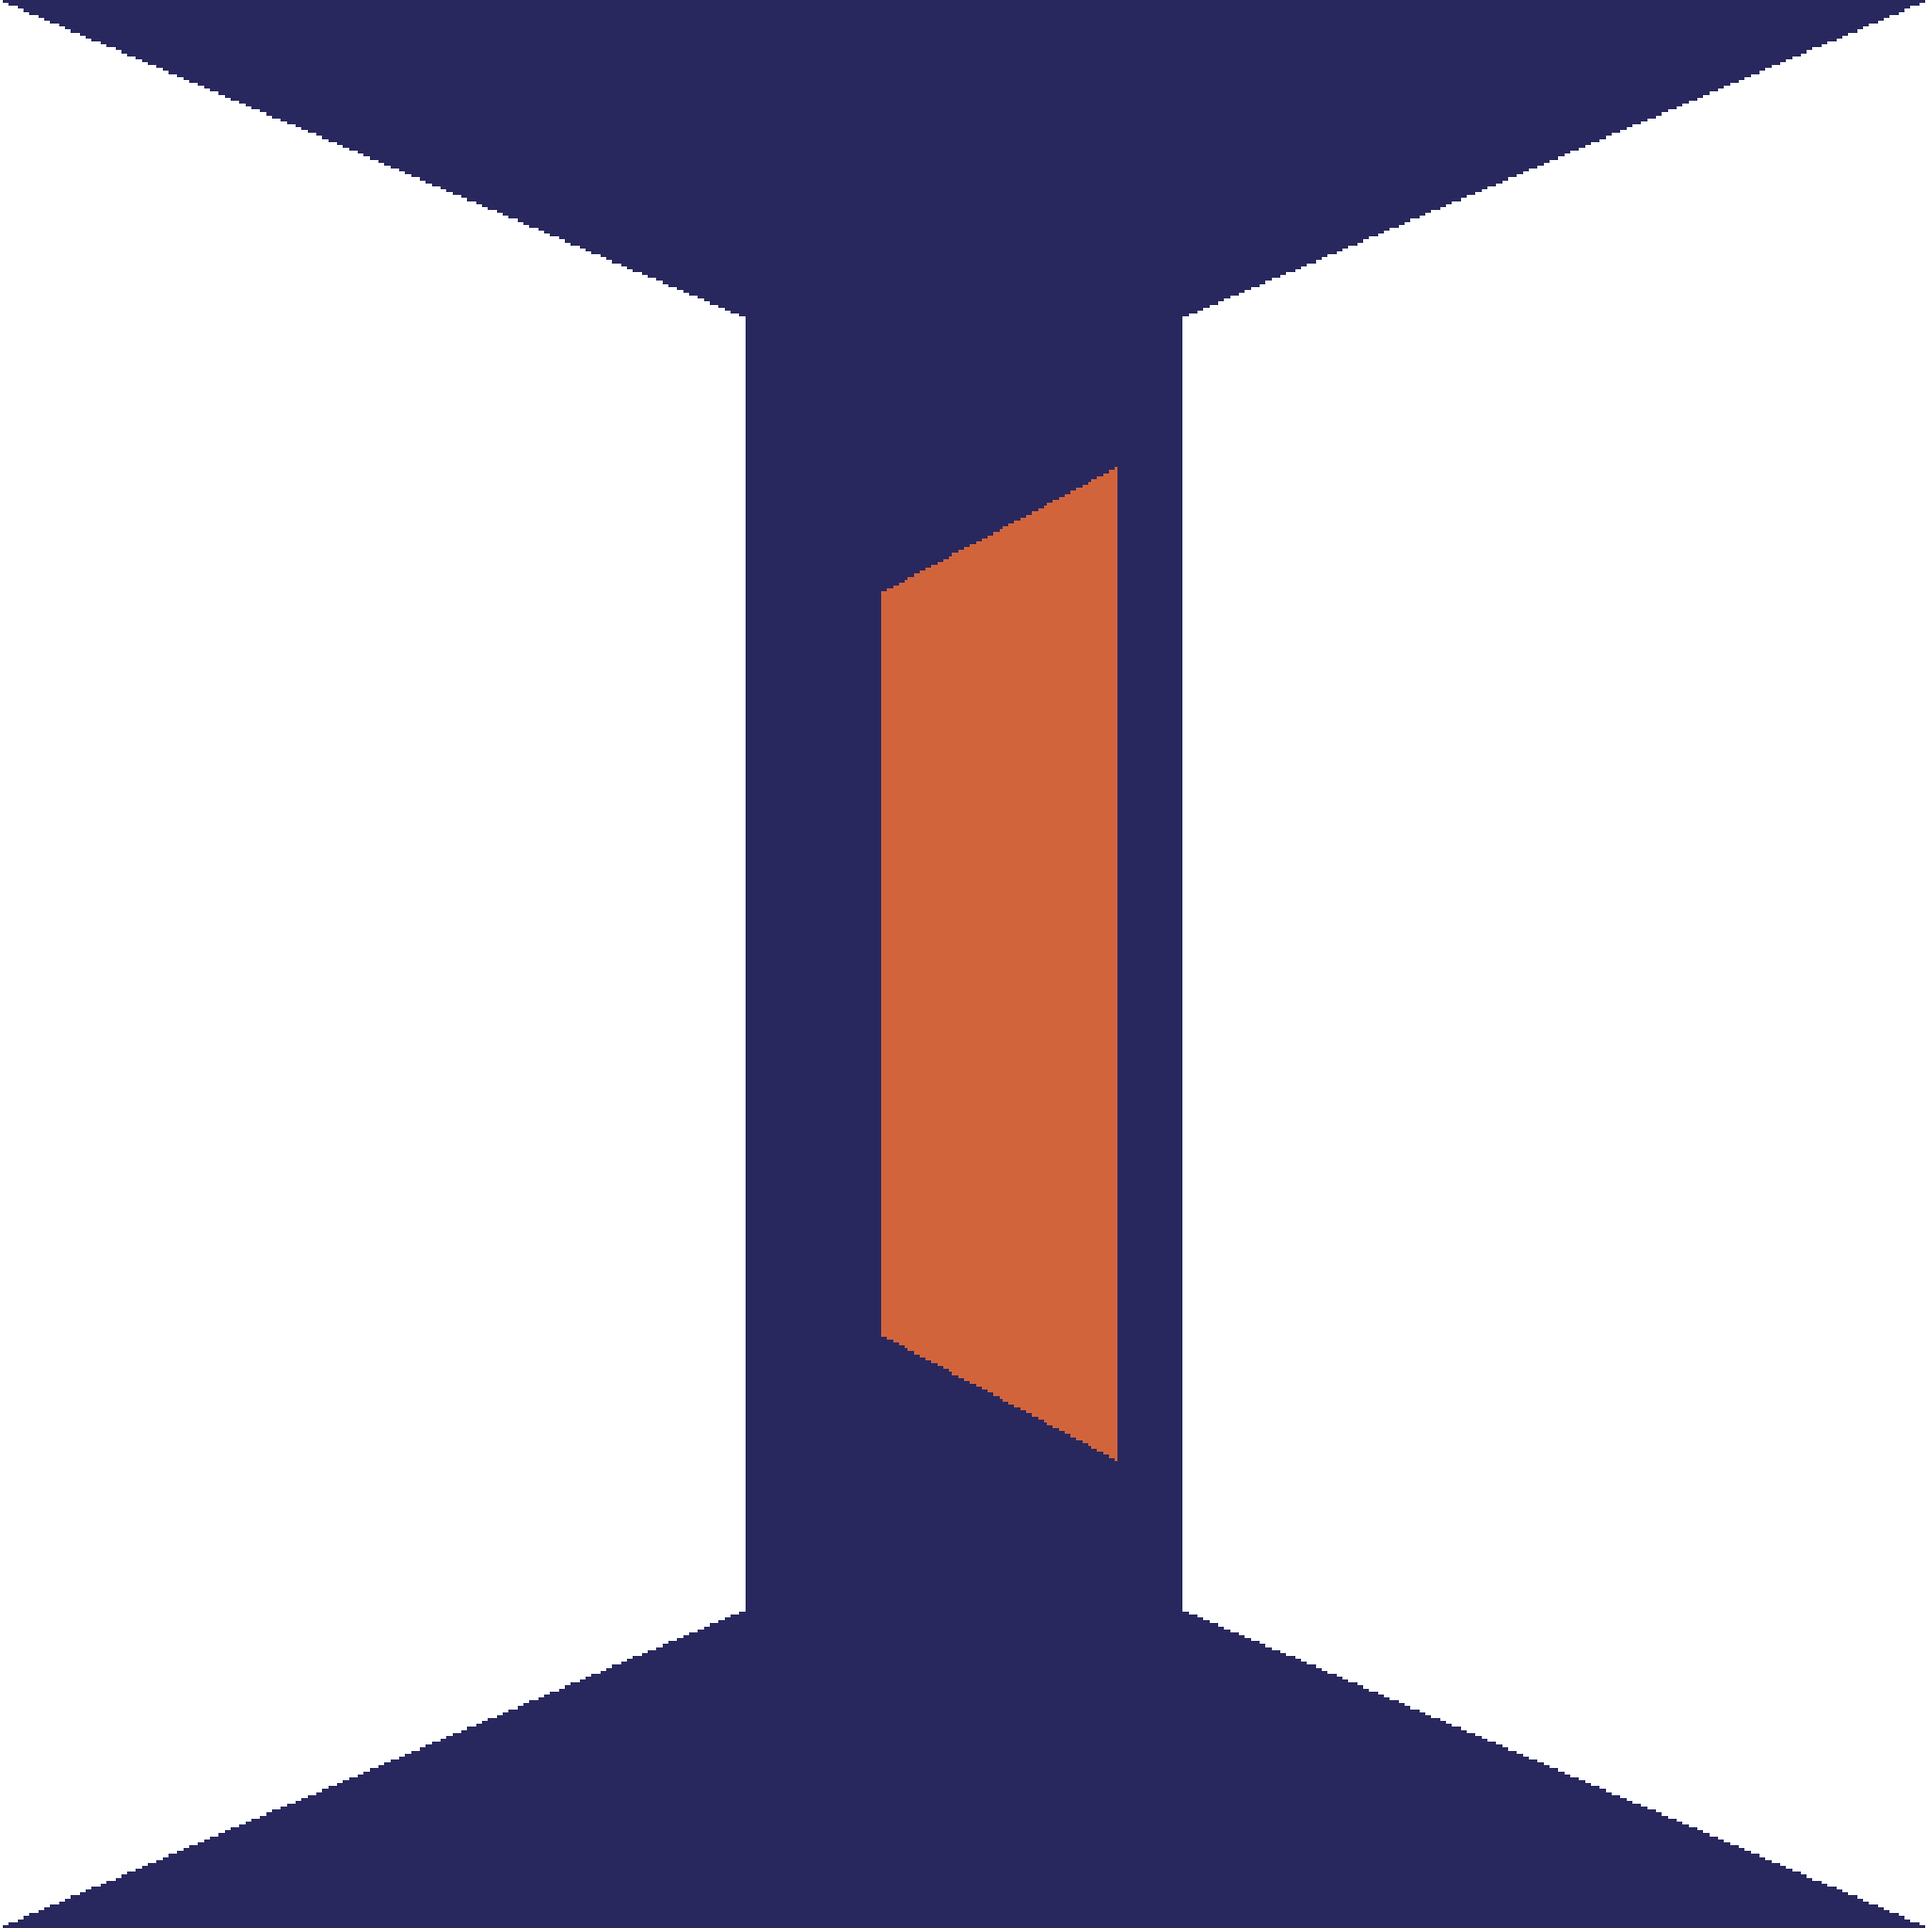
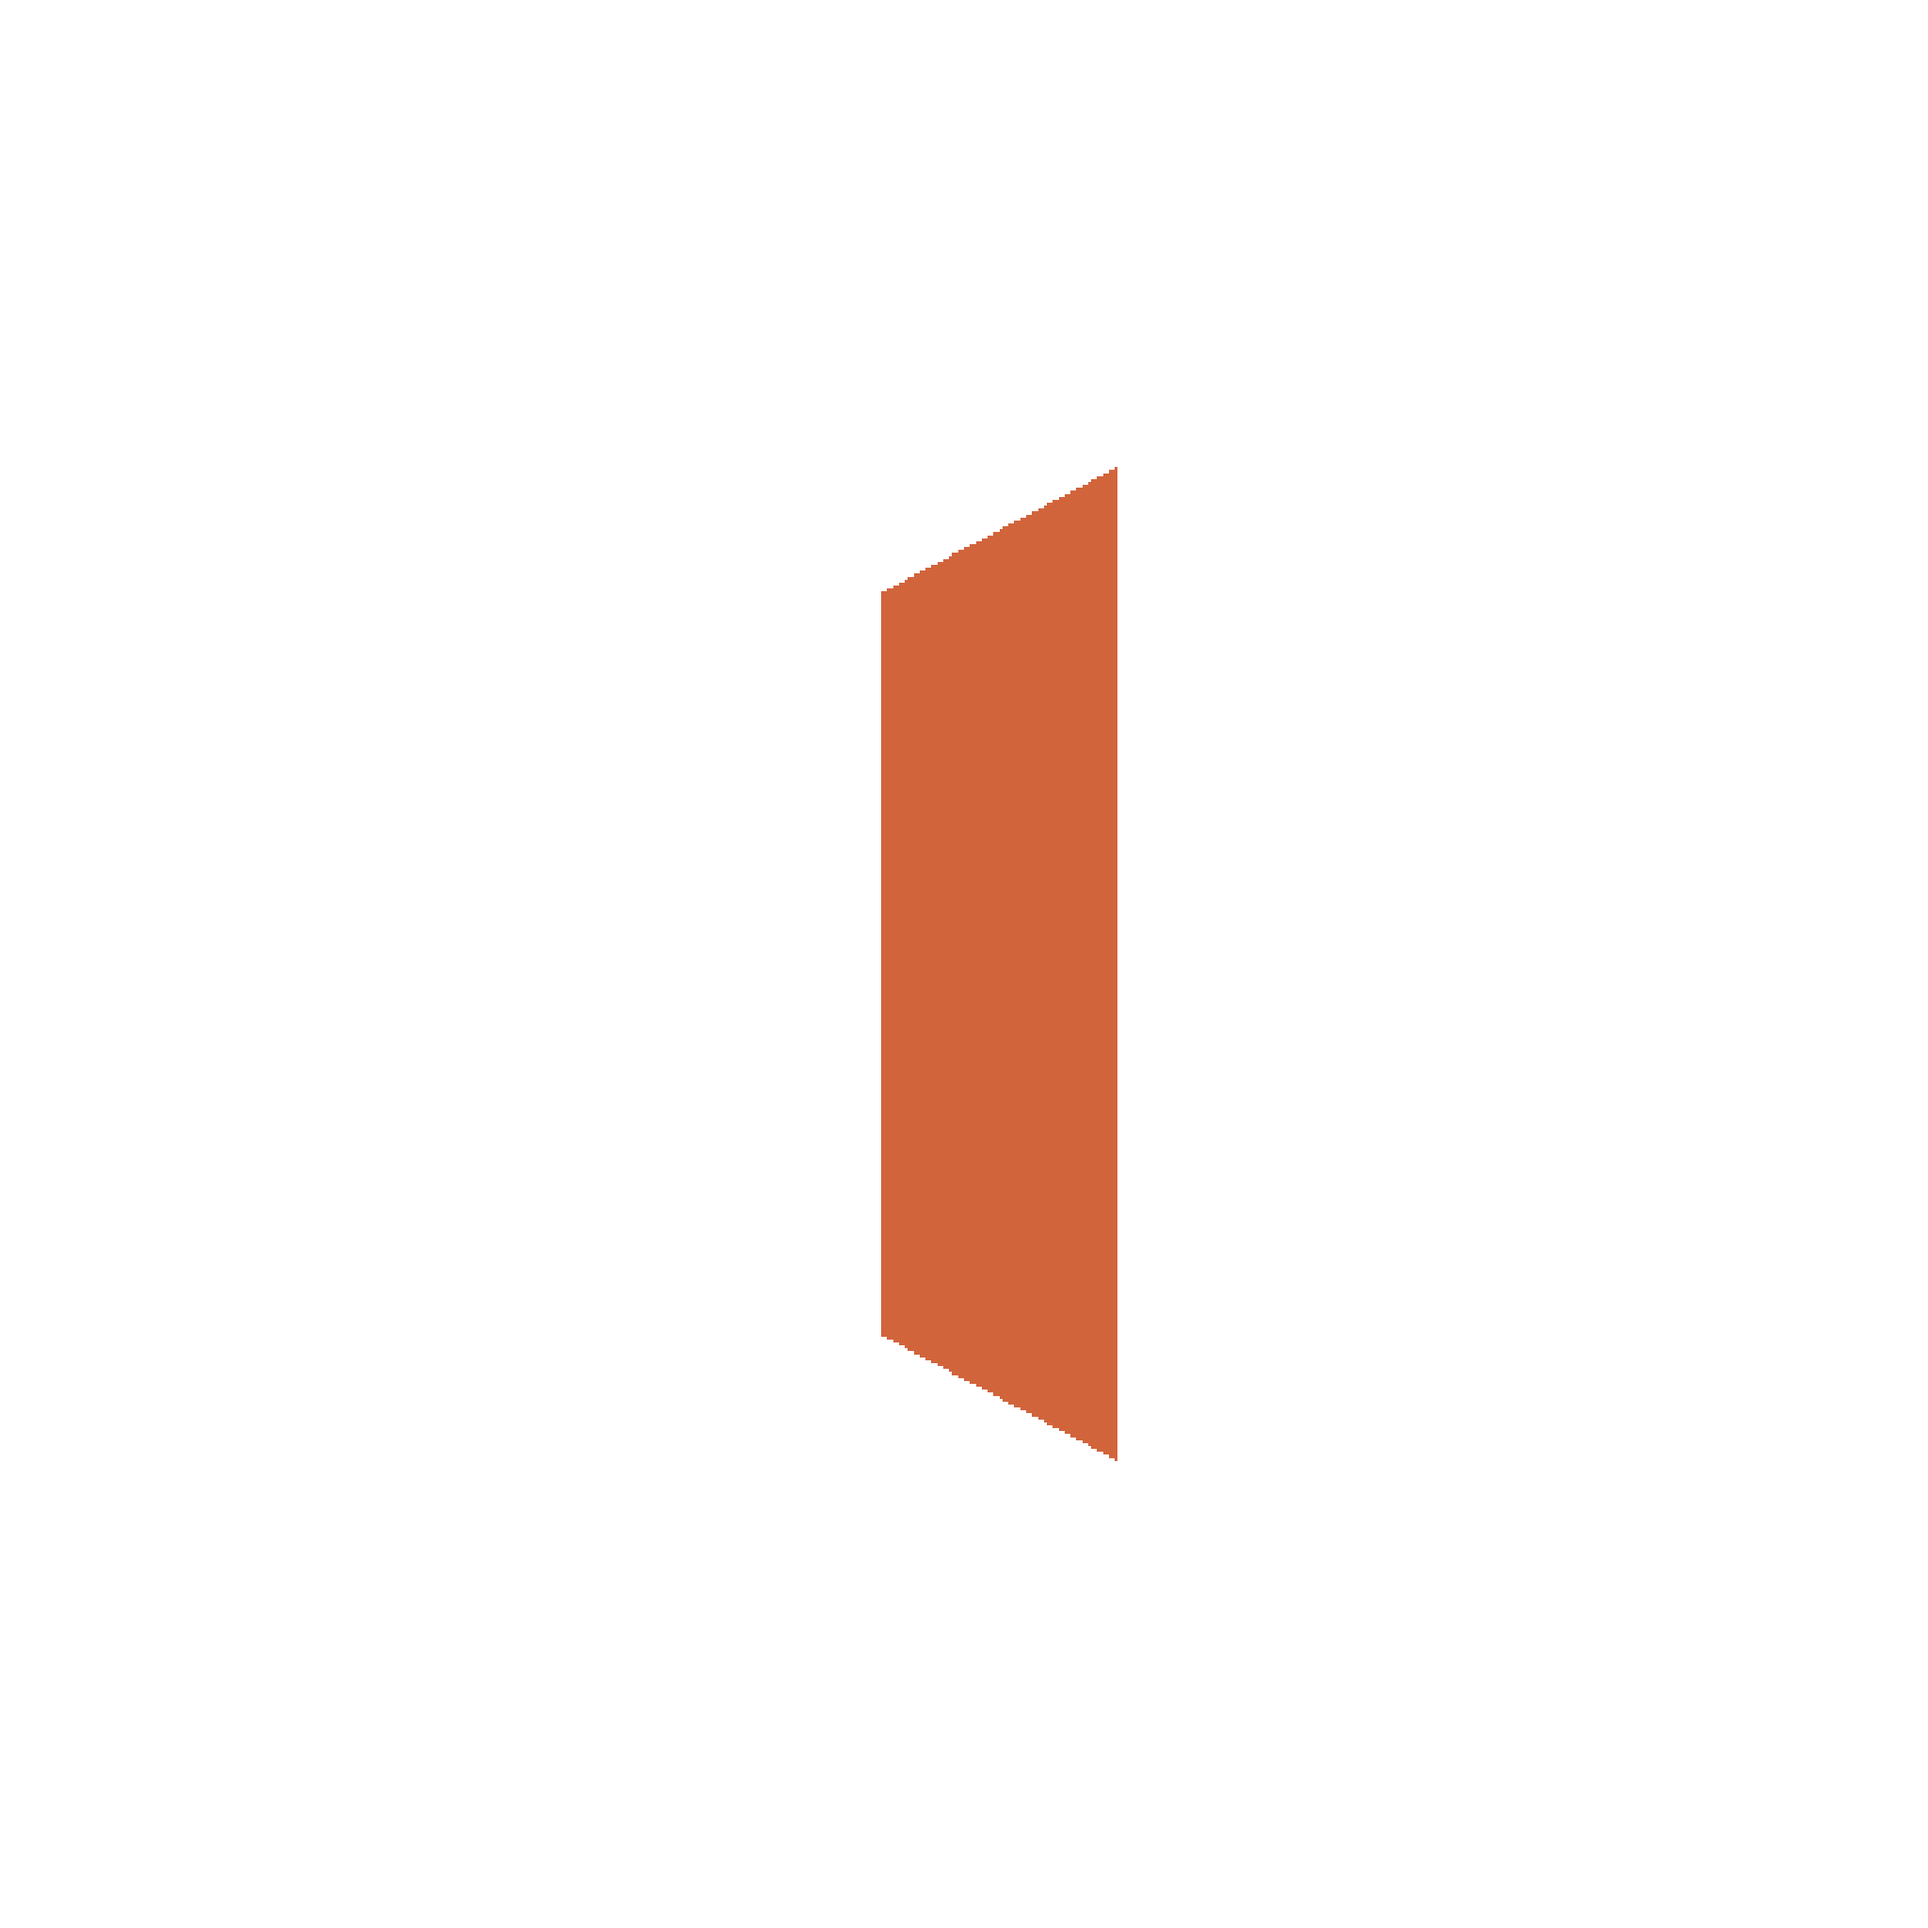
Adopt the approved v1.5 Provizas brand asset package
Frontend counterpart of provizas-manifest@3fa1634. The header logo now
shows the full white+orange mark clearly against navy (was blending
into it before), plus dedicated favicon/apple-touch-icon exports.

Changed region(s): [[0.0, 0.0, 1.0, 1.0]]

diff --git a/index.html b/index.html
@@ -4,11 +4,11 @@
 <meta charset="UTF-8">
 <meta name="viewport" content="width=device-width, initial-scale=1.0">
 <title>Provizas Hub</title>
-<link rel="icon" type="image/png" href="/assets/symbol.png">
+<link rel="icon" type="image/png" href="/assets/favicon.png">
 <!-- Add to Home Screen support: launches full-screen with the app icon,
      instead of opening as a regular browser tab/bookmark. -->
 <link rel="manifest" href="/manifest.webmanifest">
-<link rel="apple-touch-icon" href="/assets/symbol.png">
+<link rel="apple-touch-icon" href="/assets/apple-touch-icon.png">
 <meta name="apple-mobile-web-app-capable" content="yes">
 <meta name="apple-mobile-web-app-status-bar-style" content="black-translucent">
 <meta name="apple-mobile-web-app-title" content="Provizas Hub">
@@ -447,7 +447,7 @@
 <header class="top" id="appHeader" hidden>
   <div class="header-left">
     <button class="nav-toggle" id="navToggle" aria-label="Toggle menu" title="Toggle menu">☰</button>
-    <img class="brandmark" src="/assets/symbol.png" alt="Provizas" onerror="this.style.display='none'">
+    <img class="brandmark" src="/assets/symbol-reverse.png" alt="Provizas" onerror="this.style.display='none'">
     <h1 class="apptitle">Provizas Hub</h1>
   </div>
   <div class="header-right">
